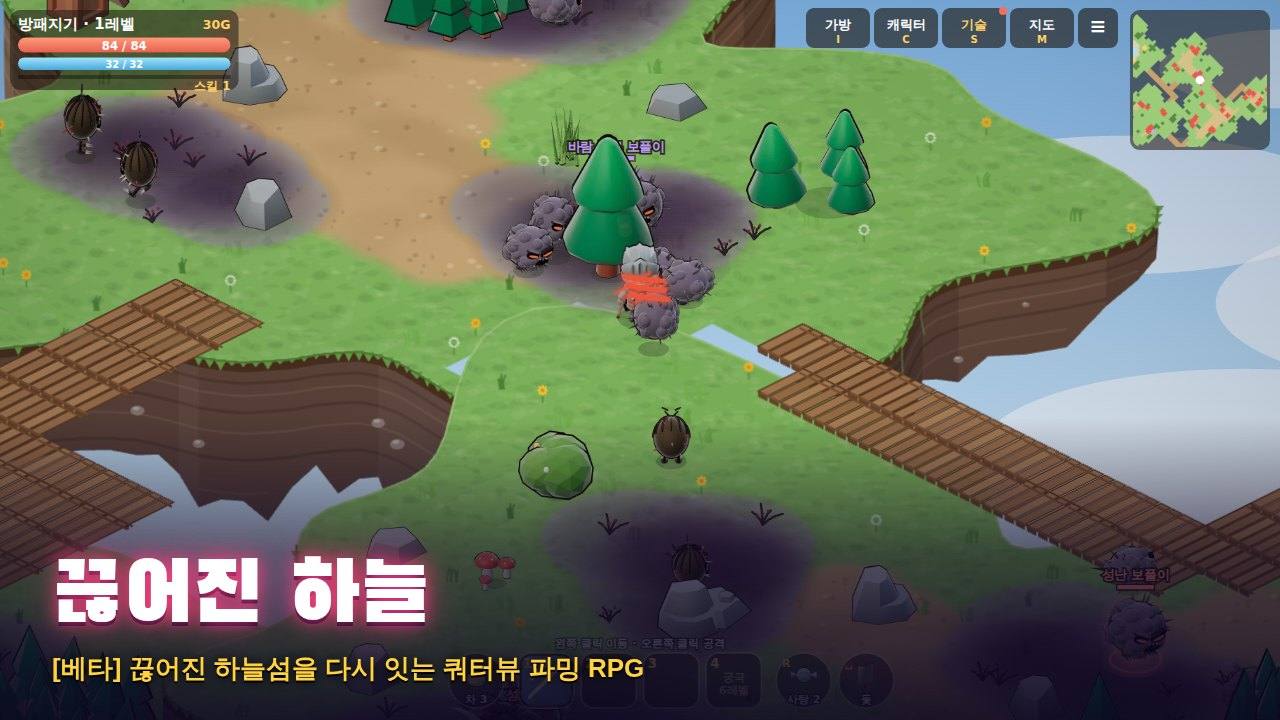
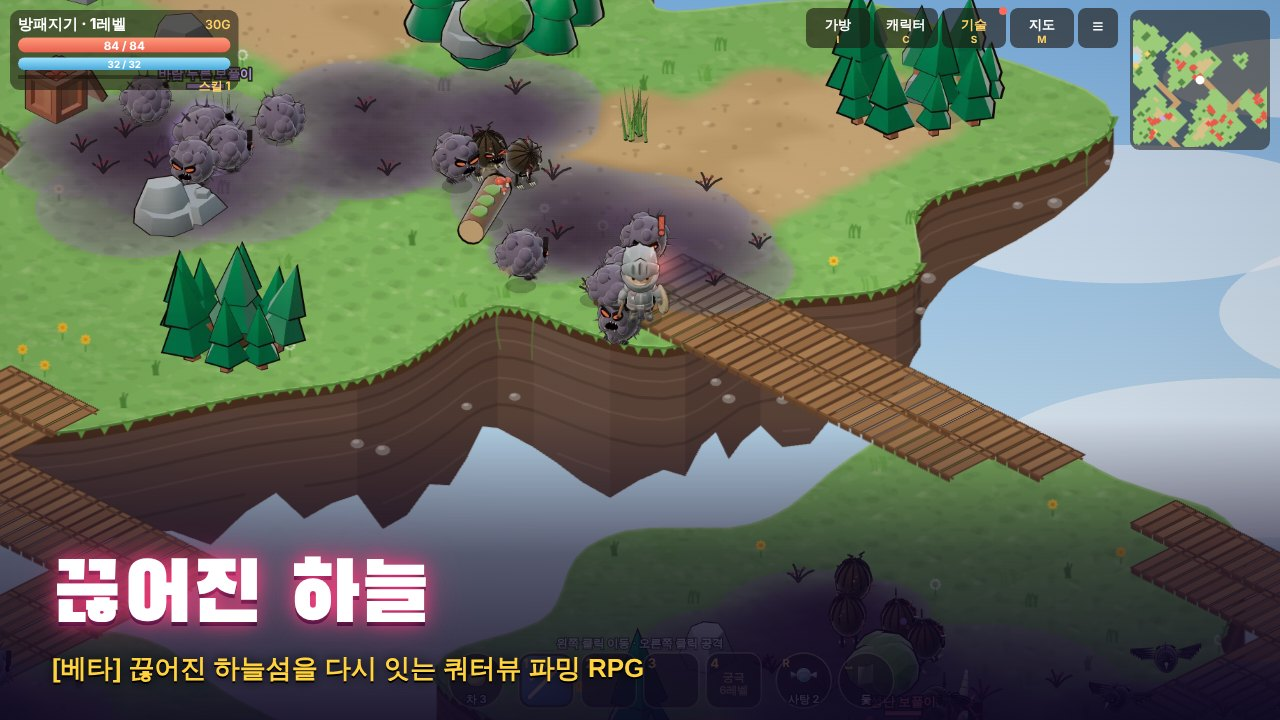
네온 올가미·끊어진 하늘 게임 전용 스킨 각 5종 (BK 11/16 승인)
- 올가미: 올가미 선(불꽃·사탕 줄무늬·무지개) + 잡을 때 효과(별 터짐·하트 뿅)
- 끊어진 하늘: 발밑 오라(바람 고리·꽃잎 고리·황금 햇무리) + 걸음 흔적(깃털·별가루), 모든 직업 공통
- 겉모습만, 사이트 코인 게임별 상점. noskin 임시 표시 제거, sky 포스터 재촬영

Claude-Session: https://claude.ai/code/session_01MeQV9rSArkd3u6kEFVJyqB

diff --git a/playground/games/lasso/game.js b/playground/games/lasso/game.js
@@ -115,6 +115,14 @@
   let trail = []; // [{x, y}]
   let isDrawing = false;
 
+  // 게임 전용 꾸미기(🛒 이 게임 상점, 2026-11-16): 겉모습만 — 판정·점수 영향 없음
+  let lnSkin = '', fxSkin = '';
+  function loadSkins() {
+    try { lnSkin = window.Bonus && Bonus.gitem ? Bonus.gitem('lasso', 'ln') : ''; fxSkin = window.Bonus && Bonus.gitem ? Bonus.gitem('lasso', 'fx') : ''; } catch(e) { lnSkin = fxSkin = ''; }
+  }
+  loadSkins();
+  document.addEventListener('click', e => { if (e.target.closest && e.target.closest('.gshop')) setTimeout(loadSkins, 50); });
+
   // Keyboard Cursor State
   let kbCursor = { x: W / 2, y: H / 2, active: false };
   let keys = {};
@@ -185,13 +193,13 @@
     });
   }
 
-  function addParticles(x, y, col, count) {
+  function addParticles(x, y, col, count, shape) {
     for (let i = 0; i < count; i++) {
       const a = Math.random() * Math.PI * 2;
       const sp = 50 + Math.random() * 210;
       particles.push({
         x, y, vx: Math.cos(a) * sp, vy: Math.sin(a) * sp,
-        r: 2.5 + Math.random() * 4, col, life: 0.45 + Math.random() * 0.35, maxLife: 0.8
+        r: 2.5 + Math.random() * 4, col, life: 0.45 + Math.random() * 0.35, maxLife: 0.8, shape, rot: Math.random() * 6.3
       });
     }
   }
@@ -205,6 +213,7 @@
   }
 
   function startGame() {
+    loadSkins();
     const seed = isDaily ? ('nl-daily-' + getKstDay()) : ('nl-free-' + Date.now() + '-' + Math.random());
     rng = createRng(seed);
 
@@ -308,6 +317,9 @@
 
     trail.push({ x, y });
     if (trail.length > MAX_TRAIL) trail.shift();
+    if (lnSkin === 'fire' && Math.random() < 0.5) {  // 불꽃 선: 끝에서 불씨가 튐(겉모습만)
+      particles.push({ x, y, vx: (Math.random() - 0.5) * 60, vy: -40 - Math.random() * 70, r: 1.5 + Math.random() * 2.5, col: Math.random() < 0.5 ? '#ffd23f' : '#ff8a3d', life: 0.35 + Math.random() * 0.25, maxLife: 0.6 });
+    }
 
     // Check if the new segment intersects any earlier segment to form a closed loop!
     const n = trail.length;
@@ -385,7 +397,7 @@
     let baseSum = 0;
     caught.forEach(({ orb, idx }) => {
       baseSum += orb.basePts;
-      addParticles(orb.x, orb.y, orb.col, 16);
+      addParticles(orb.x, orb.y, orb.col, 16, fxSkin);
 
       if (orb.kind === 'clock') {
         timeLeft += 4.0;
@@ -402,7 +414,7 @@
           bossKillCount++;
           score += 3000;
           timeLeft += 5.0;
-          addParticles(orb.x, orb.y, '#ffd23f', 45);
+          addParticles(orb.x, orb.y, '#ffd23f', 45, fxSkin);
           addFloatText(orb.x, orb.y, '👑 보스 격파! +3,000점 & +5초!', '#ffd23f', 24);
           orbs.splice(idx, 1);
         } else {
@@ -667,25 +679,54 @@
       ctx.restore();
     });
 
-    // Draw Lasso Trail
+    // Draw Lasso Trail (lnSkin: '' 기본 청록 · fire 불꽃 · candy 사탕 줄무늬 · rainbow 무지개)
     if (trail.length >= 2) {
       ctx.save();
       ctx.lineCap = 'round';
       ctx.lineJoin = 'round';
-      ctx.shadowColor = '#22d3ee';
-      ctx.shadowBlur = 14;
-      ctx.strokeStyle = '#22d3ee';
-      ctx.lineWidth = 5;
       ctx.beginPath();
       trail.forEach((pt, idx) => {
         if (idx === 0) ctx.moveTo(pt.x, pt.y);
         else ctx.lineTo(pt.x, pt.y);
       });
-      ctx.stroke();
+      const tnow = performance.now() / 1000;
+      if (lnSkin === 'rainbow') {
+        ctx.shadowColor = '#ffffff'; ctx.shadowBlur = 12;
+        for (let i = 1; i < trail.length; i++) {
+          const a = trail[i - 1], b = trail[i];
+          ctx.strokeStyle = `hsl(${(i * 9 + tnow * 160) % 360},100%,62%)`;
+          ctx.lineWidth = 6;
+          ctx.beginPath(); ctx.moveTo(a.x, a.y); ctx.lineTo(b.x, b.y); ctx.stroke();
+        }
+        ctx.shadowBlur = 0;
+        ctx.beginPath(); trail.forEach((pt, idx) => idx ? ctx.lineTo(pt.x, pt.y) : ctx.moveTo(pt.x, pt.y));
+        ctx.strokeStyle = '#ffffffcc'; ctx.lineWidth = 1.6; ctx.stroke();
+      } else if (lnSkin === 'candy') {
+        ctx.shadowColor = '#ff5fa8'; ctx.shadowBlur = 14;
+        ctx.strokeStyle = '#ff3d9a'; ctx.lineWidth = 7; ctx.stroke();
+        ctx.shadowBlur = 0;
+        ctx.setLineDash([9, 9]); ctx.lineDashOffset = -tnow * 40;
+        ctx.strokeStyle = '#fff4fa'; ctx.lineWidth = 5; ctx.stroke();
+        ctx.setLineDash([]);
+        ctx.strokeStyle = '#ffffff66'; ctx.lineWidth = 1.5; ctx.stroke();
+      } else if (lnSkin === 'fire') {
+        ctx.shadowColor = '#ff6a1a'; ctx.shadowBlur = 18;
+        ctx.strokeStyle = '#ff4d1a'; ctx.lineWidth = 8; ctx.stroke();
+        ctx.shadowBlur = 0;
+        ctx.strokeStyle = '#ffb03a'; ctx.lineWidth = 4; ctx.stroke();
+        ctx.strokeStyle = '#fff6c8'; ctx.lineWidth = 1.6; ctx.stroke();
+      } else {
+        ctx.shadowColor = '#22d3ee';
+        ctx.shadowBlur = 14;
+        ctx.strokeStyle = '#22d3ee';
+        ctx.lineWidth = 5;
+        ctx.stroke();
 
-      ctx.strokeStyle = '#ffffff';
-      ctx.lineWidth = 2;
-      ctx.stroke();
+        ctx.strokeStyle = '#ffffff';
+        ctx.lineWidth = 2;
+        ctx.stroke();
+      }
+      ctx.shadowBlur = 0;
 
       // Start Anchor Ring so player sees where to close the loop
       const first = trail[0];
@@ -702,8 +743,25 @@
       ctx.globalAlpha = Math.max(0, p.life / p.maxLife);
       ctx.fillStyle = p.col;
       ctx.beginPath();
-      ctx.arc(p.x, p.y, p.r, 0, Math.PI * 2);
-      ctx.fill();
+      if (p.shape === 'star') {  // 별 터짐: 5각 별 + 흰 테두리
+        const R = p.r * 1.9, r2 = R * 0.45;
+        for (let k = 0; k < 10; k++) { const rr = k % 2 ? r2 : R, a = p.rot + k * Math.PI / 5; ctx.lineTo(p.x + Math.cos(a) * rr, p.y + Math.sin(a) * rr); }
+        ctx.closePath(); ctx.fill();
+        ctx.strokeStyle = '#ffffffaa'; ctx.lineWidth = 1; ctx.stroke();
+      } else if (p.shape === 'heart') {  // 하트 뿅: 분홍 하트 + 하이라이트
+        const s = p.r * 0.75;
+        ctx.save(); ctx.translate(p.x, p.y); ctx.rotate(Math.sin(p.rot) * 0.4);
+        ctx.fillStyle = '#ff5fa8';
+        ctx.moveTo(0, s * 1.4);
+        ctx.bezierCurveTo(-s * 2.2, 0, -s * 1.3, -s * 1.9, 0, -s * 0.7);
+        ctx.bezierCurveTo(s * 1.3, -s * 1.9, s * 2.2, 0, 0, s * 1.4);
+        ctx.fill();
+        ctx.fillStyle = '#ffffffcc'; ctx.beginPath(); ctx.arc(-s * 0.6, -s * 0.6, s * 0.35, 0, Math.PI * 2); ctx.fill();
+        ctx.restore();
+      } else {
+        ctx.arc(p.x, p.y, p.r, 0, Math.PI * 2);
+        ctx.fill();
+      }
     });
     ctx.globalAlpha = 1;
 

diff --git a/playground/src3d/sky/game/5h-skin.js b/playground/src3d/sky/game/5h-skin.js
@@ -1,0 +1,33 @@
+// 게임 전용 꾸미기(5락실 '🛒 이 게임 상점', 2026-11-16 BK "새 게임이 올라오면 스킨도"): 겉모습만 — 능력·판정 영향 없음.
+// 발밑 오라(au): wind 바람 고리 · bloom 꽃잎 고리 · sun 황금 햇무리 / 걸음 흔적(tr): feather 깃털 · star 별가루. 사이트 코인으로 사고 Bonus.gitem('sky', k) 로 읽는다.
+let SKN = { au: '', tr: '', t: -9 }, STR = [];
+function skinNow() {
+  if (G.t - SKN.t < 1 && SKN.t <= G.t) return SKN; SKN.t = G.t;
+  const B = opts.bonus; try { SKN.au = B && B.gitem ? B.gitem('sky', 'au') : ''; SKN.tr = B && B.gitem ? B.gitem('sky', 'tr') : ''; } catch (e) { SKN.au = SKN.tr = ''; }
+  return SKN;
+}
+function drawSkinUnder(P, sx, sy) {
+  const S = skinNow(), t = G.t; 
+  if (S.tr) { // 걸음 흔적: 0.4칸마다 하나, 1.6초 동안 옅어짐
+    const l = STR[STR.length - 1]; if (!l || hyp(l.x - P.x, l.y - P.y) > .4) { STR.push({ x: P.x, y: P.y, t, r: Math.random() * TAU }); if (STR.length > 18) STR.shift(); }
+    for (const f of STR) { const k = (t - f.t) / 2.2; if (k > 1 || k < 0) continue; const [fx, fy] = iso(f.x, f.y); x.globalAlpha = (1 - k) * .85;
+      if (S.tr === 'feather') { x.save(); x.translate(fx, fy - 2 - k * 6); x.rotate(f.r); const g = x.createLinearGradient(-7, 0, 7, 0); g.addColorStop(0, '#ffffff'); g.addColorStop(1, '#bfe6ff'); x.fillStyle = g; x.beginPath(); x.ellipse(0, 0, 7, 2.6, 0, 0, TAU); x.fill(); x.strokeStyle = '#7fb4d8'; x.lineWidth = .8; x.beginPath(); x.moveTo(-7, 0); x.lineTo(7, 0); x.stroke(); x.restore(); }
+      else { const s = 5.4 * (1 - k * .5) * (.8 + Math.sin(t * 12 + f.r * 5) * .2); x.fillStyle = 'rgba(255,220,90,.35)'; x.beginPath(); x.arc(fx, fy - 3, s * 2.6, 0, TAU); x.fill(); x.fillStyle = k < .3 ? '#ffffff' : '#ffe58a'; x.beginPath(); for (let i = 0; i < 8; i++) { const a = f.r + i * Math.PI / 4, rr = i % 2 ? s * .35 : s * 1.6; x.lineTo(fx + Math.cos(a) * rr, fy - 3 + Math.sin(a) * rr * .8); } x.closePath(); x.fill(); x.strokeStyle = 'rgba(170,110,0,.8)'; x.lineWidth = 1; x.stroke(); } }
+    x.globalAlpha = 1;
+  } else if (STR.length) STR.length = 0;
+  if (!S.au) return;
+  x.save(); x.translate(sx, sy); x.scale(1.3, 1.3); x.translate(-sx, -sy);
+  if (S.au === 'wind') { // 바람 고리: 도는 바람 줄기 두 겹
+    for (let j = 0; j < 2; j++) { const r = 22 + j * 6, sp = (j ? -1 : 1) * t * 2.4; x.strokeStyle = j ? 'rgba(190,240,255,.55)' : 'rgba(120,220,255,.85)'; x.lineWidth = j ? 1.6 : 2.4; for (let i = 0; i < 3; i++) { x.beginPath(); x.ellipse(sx, sy, r, r * .48, 0, sp + i * TAU / 3, sp + i * TAU / 3 + 1.2); x.stroke(); } }
+    for (let i = 0; i < 3; i++) { const k = (t * .9 + i / 3) % 1, a = i * 2.1 + t; x.globalAlpha = (1 - k) * .7; x.fillStyle = '#e8fbff'; x.beginPath(); x.ellipse(sx + Math.cos(a) * 20, sy - k * 30, 3.5 * (1 - k) + 1, 1.2, 0, 0, TAU); x.fill(); } x.globalAlpha = 1;
+  } else if (S.au === 'bloom') { // 꽃잎 고리: 분홍 꽃잎 6장이 발밑을 돈다
+    const g = x.createRadialGradient(sx, sy, 2, sx, sy, 26); g.addColorStop(0, 'rgba(255,170,210,.45)'); g.addColorStop(1, 'rgba(255,170,210,0)'); x.fillStyle = g; x.beginPath(); x.ellipse(sx, sy, 26, 13, 0, 0, TAU); x.fill();
+    for (let i = 0; i < 6; i++) { const a = t * 1.3 + i * TAU / 6, px = sx + Math.cos(a) * 22, py = sy + Math.sin(a) * 10.5; x.save(); x.translate(px, py); x.rotate(a * 2); x.fillStyle = i % 2 ? '#ffb3d1' : '#ff8fbf'; x.beginPath(); x.ellipse(0, 0, 4.6, 2.4, 0, 0, TAU); x.fill(); x.fillStyle = 'rgba(255,255,255,.75)'; x.beginPath(); x.ellipse(-1.3, -.5, 1.6, .8, 0, 0, TAU); x.fill(); x.restore(); }
+  } else if (S.au === 'sun') { // 황금 햇무리: 금빛 원판 + 도는 빛살 + 피어오르는 금가루
+    const pu = .5 + Math.sin(t * 3) * .5, g = x.createRadialGradient(sx, sy, 2, sx, sy, 30); g.addColorStop(0, `rgba(255,226,120,${.5 + pu * .2})`); g.addColorStop(1, 'rgba(255,200,60,0)'); x.fillStyle = g; x.beginPath(); x.ellipse(sx, sy, 30, 15, 0, 0, TAU); x.fill();
+    x.strokeStyle = 'rgba(255,214,90,.9)'; x.lineWidth = 2; x.beginPath(); x.ellipse(sx, sy, 20 + pu * 2, 9.5 + pu, 0, 0, TAU); x.stroke();
+    x.strokeStyle = 'rgba(255,240,180,.6)'; x.lineWidth = 1.4; for (let i = 0; i < 8; i++) { const a = t * .7 + i * TAU / 8; x.beginPath(); x.moveTo(sx + Math.cos(a) * 23, sy + Math.sin(a) * 11); x.lineTo(sx + Math.cos(a) * 31, sy + Math.sin(a) * 15); x.stroke(); }
+    for (let i = 0; i < 5; i++) { const k = (t * .7 + i / 5) % 1, a = i * 1.9; x.globalAlpha = (1 - k); x.fillStyle = '#ffe27a'; x.beginPath(); x.arc(sx + Math.cos(a) * 14, sy - 4 - k * 52, 1.8, 0, TAU); x.fill(); } x.globalAlpha = 1;
+  }
+  x.restore();
+}

diff --git a/playground/build.py b/playground/build.py
@@ -670,6 +670,18 @@ GAME_ITEMS = [
     # 게이머 면허증(도구, 2026-11-16): 카드 테두리. 기본·체리 핑크는 무료(코드 안), 아래 둘만 코인
     {"g": "pixelcard", "k": "fr", "kn": "카드 테두리", "id": "aurora", "name": "오로라 그린", "icon": "🟢", "p": 4},
     {"g": "pixelcard", "k": "fr", "kn": "카드 테두리", "id": "gold", "name": "황금 홀로그램", "icon": "👑", "p": 8},
+    # 네온 올가미(2026-11-16 BK "새 게임이 올라오면 스킨도"): 올가미 선 3종 + 잡을 때 효과 2종. 겉모습만
+    {"g": "lasso", "k": "ln", "kn": "올가미 선", "id": "fire", "name": "불꽃 올가미", "icon": "🔥", "p": 5},
+    {"g": "lasso", "k": "ln", "kn": "올가미 선", "id": "candy", "name": "사탕 줄무늬", "icon": "🍭", "p": 8},
+    {"g": "lasso", "k": "ln", "kn": "올가미 선", "id": "rainbow", "name": "무지개 올가미", "icon": "🌈", "p": 12},
+    {"g": "lasso", "k": "fx", "kn": "잡을 때 효과", "id": "star", "name": "별 터짐", "icon": "⭐", "p": 6},
+    {"g": "lasso", "k": "fx", "kn": "잡을 때 효과", "id": "heart", "name": "하트 뿅", "icon": "💗", "p": 9},
+    # 끊어진 하늘(2026-11-16 BK): 발밑 오라 3종 + 걸음 흔적 2종. 모든 직업 공통, 겉모습만(능력 영향 없음)
+    {"g": "sky", "k": "au", "kn": "발밑 오라", "id": "wind", "name": "바람 고리", "icon": "🌀", "p": 6},
+    {"g": "sky", "k": "au", "kn": "발밑 오라", "id": "bloom", "name": "꽃잎 고리", "icon": "🌸", "p": 9},
+    {"g": "sky", "k": "au", "kn": "발밑 오라", "id": "sun", "name": "황금 햇무리", "icon": "☀", "p": 14},
+    {"g": "sky", "k": "tr", "kn": "걸음 흔적", "id": "feather", "name": "깃털 흔적", "icon": "🪶", "p": 6},
+    {"g": "sky", "k": "tr", "kn": "걸음 흔적", "id": "star", "name": "별가루 흔적", "icon": "⭐", "p": 10},
 ]
 # 관리자 지급용 '게임 안 아이템'(BK 11/14): 게임 안 화폐(골드·도토리)로 사는 꾸미기. 미니 상점(코인)에는 안 나오고 /admin 에만.
 # 새 게임은 games/<slug>/items.json {"items":[{k,kn,id,name,icon}]} 만 두면 관리자 페이지에 자동으로 생긴다.

diff --git a/docs/GAME_QUALITY.md b/docs/GAME_QUALITY.md
@@ -70,7 +70,7 @@
 
 **예외**: 스킨이 어울리지 않는 게임(예: 글만 있는 페이지)은 BK 확인을 받은 뒤 meta.json 에 `"noskin": "이유"`. 확인 전 임시 표시는 `"noskin": "BK 결정 대기(날짜)…"` 이고, BK 답이 오면 지운다.
 
-**현재 스킨 없는 게임 (2026-11-16)**: 네온 올가미(lasso, 11/16 새 게임)·끊어진 하늘(sky, 베타 RPG) → BK 결정 대기.
+**스킨 점검 (2026-11-16)**: 스킨이 없던 네온 올가미(올가미 선 3 + 잡을 때 효과 2)·끊어진 하늘(발밑 오라 3 + 걸음 흔적 2, 모든 직업 공통 코인 상점 — 게임 안 골드 상점과 별개)에 BK 승인으로 추가 → 이제 모든 게임에 스킨 있음. 스크린샷 `/mnt/project-files/5raksil-skins/`.
 
 ## 변경 이력
 - 2026-11-14: 최초 작성, 별똥별 피하기 v2 반영.
@@ -78,4 +78,4 @@
 - 2026-11-14: 숫자 퍼즐(효과음·합치기/정답 입자·타일 빛)·틀린그림(찾기 고리·✕·흔들림·꽃가루·결과 배지) 다듬기.
 - 2026-11-14: 몽글숲 아지트(테스터 체험판) 추가. 귀여운 육성 게임이라 네온 빛·Press Start 2P 대신 파스텔 조명·Jua 글꼴을 쓰고, 나머지 항목(포스터·전체 화면·코드 그림·입자·소리·성능)은 기준대로.
 - 2026-11-15: 포스터 자동 갱신(2-1). 모든 전체 화면 게임 9개 포스터를 현재 화면으로 다시 찍음, 그림 주소 내용 해시로 캐시 방지, Actions `posters`.
-- 2026-11-16: 5장 "새 게임 = 게임 전용 스킨" 규칙(종류별 개수·가격, 금지, 스크린샷, noskin 예외) + 테스트 test_raksil_skins.py.
+- 2026-11-16: 5장 "새 게임 = 게임 전용 스킨" 규칙(종류별 개수·가격, 금지, 스크린샷, noskin 예외) + 테스트 test_raksil_skins.py. 같은 날 네온 올가미·끊어진 하늘 스킨 각 5종 추가.
